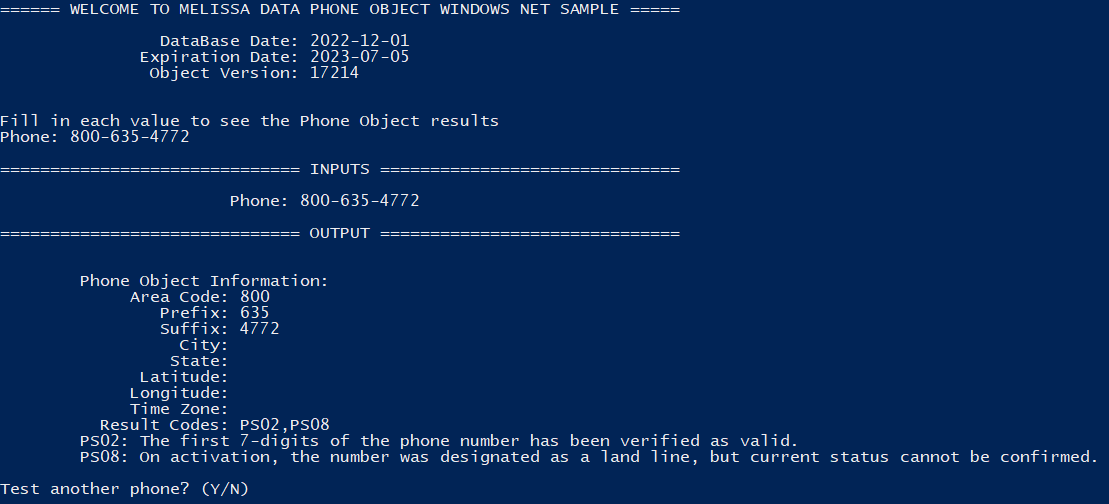
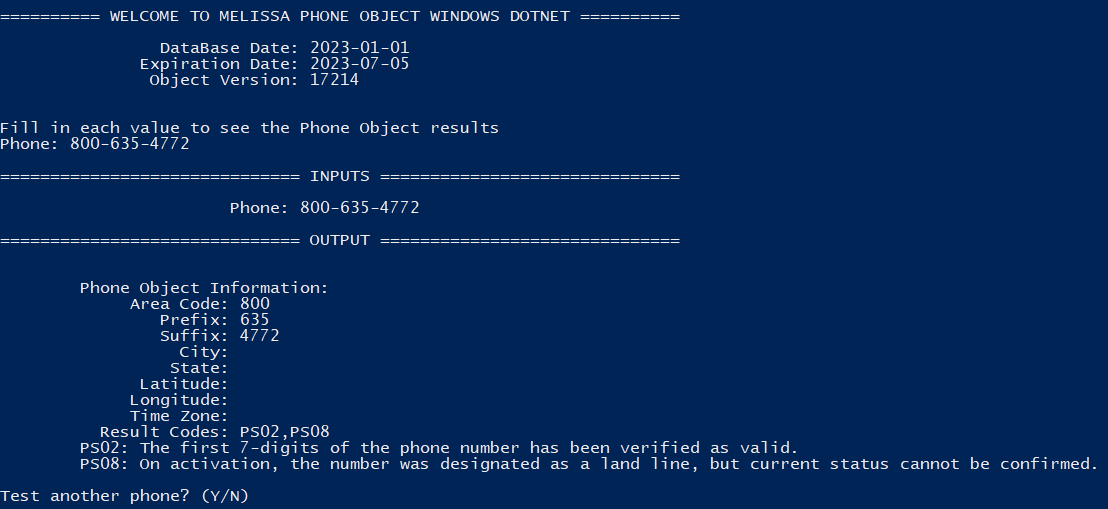
Commit C# Dotnet code for Phone Object with release notes

diff --git a/MelissaPhoneObjectWindowsDotnet/Program.cs b/MelissaPhoneObjectWindowsDotnet/Program.cs
@@ -5,7 +5,7 @@ using System.IO;
 using System.Reflection;
 using MelissaData;
 
-namespace MelissaDataPhoneObjectWindowsNETSample
+namespace MelissaPhoneObjectWindowsDotnet
 {
   class Program
   {
@@ -50,7 +50,7 @@ namespace MelissaDataPhoneObjectWindowsNETSample
 
     static void RunAsConsole(string license, string testPhone, string dataPath)
     {
-      Console.WriteLine("\n\n====== WELCOME TO MELISSA DATA PHONE OBJECT WINDOWS NET SAMPLE =====\n");
+      Console.WriteLine("\n\n========== WELCOME TO MELISSA PHONE OBJECT WINDOWS DOTNET ==========\n");
 
       PhoneObject phoneObject = new PhoneObject(license, dataPath);
 
@@ -144,16 +144,16 @@ namespace MelissaDataPhoneObjectWindowsNETSample
           }
         }
       }
-      Console.WriteLine("\n============ THANK YOU FOR USING MELISSA DATA NET OBJECT ===========\n");
+      Console.WriteLine("\n============ THANK YOU FOR USING MELISSA DOTNET OBJECT ===========\n");
     }
   }
 
   class PhoneObject
   {
-    // Path to phone object data files (.dat, etc)
+    // Path to Phone Object data files (.dat, etc)
     string dataFilePath; 
 
-    // Create instance of Melissa Data Phone Object
+    // Create instance of Melissa Phone Object
     public mdPhone mdPhoneObj = new mdPhone();
 
     public PhoneObject(string license, string dataPath)
@@ -176,13 +176,13 @@ namespace MelissaDataPhoneObjectWindowsNETSample
       Console.WriteLine($"              Expiration Date: {mdPhoneObj.GetLicenseExpirationDate()}");
 
       /**
-       * This number should match with the file properties of the Melissa Data Object binary file.
+       * This number should match with the file properties of the Melissa Object binary file.
        * If TEST appears with the build number, there may be a license key issue.
        */
       Console.WriteLine($"               Object Version: {mdPhoneObj.GetBuildNumber()}\n");
     }
 
-    //This will call the lookup function to process the input phone as well as generate the result codes
+    // This will call the lookup function to process the input phone as well as generate the result codes
     public void ExecuteObjectAndResultCodes(ref DataContainer data)
     {
       mdPhoneObj.Lookup(data.Phone, data.ZipCode);
@@ -193,8 +193,8 @@ namespace MelissaDataPhoneObjectWindowsNETSample
 
       data.ResultCodes = mdPhoneObj.GetResults();
 
-      // ResultsCodes explain any issues phone object has with the object.
-      // List of result codes for Phone object
+      // ResultsCodes explain any issues Phone Object has with the object.
+      // List of result codes for Phone Object
       // https://wiki.melissadata.com/?title=Result_Code_Details#Phone_Object
     }
   }

diff --git a/README.md b/README.md
@@ -1,8 +1,12 @@
-# Melissa Data Phone Object Windows Net Sample
+# Melissa - Phone Object Windows Dotnet
 
 ## Purpose
 
-This is a sample of the Melissa Data Phone Object using C#
+This code showcases the Melissa Phone Object using C#.
+
+Please feel free to copy or embed this code to your own project. Happy coding!
+
+For the latest Melissa Phone Object release notes, please visit: https://releasenotes.melissa.com/on-premise-api/phone-object/
 
 The console will ask the user for:
 
@@ -30,7 +34,7 @@ And return
 
 #### mdPhone.dll
 
-This is the c++ code of the Melissa Data Object.
+This is the c++ code of the Melissa Object.
 
 #### Data File(s)
 - mdGlobalPhone.dat
@@ -99,20 +103,20 @@ Melissa Updater is a CLI application allowing the user to update their Melissa a
 	- It will handle all of the data download/path and dll(s) for you. 
 2.  If you already have the latest DQS Release (ZIP), you can find the data file(s) and dll(s) in there
 	- Use the location of where you copied/installed the data and update the "$DataPath" variable in the powershell script.
-	- Copy all the dll(s) mentioned above into the `MelissaDataPhoneObjectWindowsNETSample` project folder.
+	- Copy all the dll(s) mentioned above into the `MelissaPhoneObjectWindowsDotnet` project folder.
 	
 ----------------------------------------
 
 #### Configure Target Framework
 
-Depending on your target .NET framework, you may need to configure the powershell script. In order to do this, open up the `MelissaDataPhoneObjectWindowsNETSample.ps1` for editing, proceed to the bottom of the script where you will find this section of code.
+Depending on your target .NET framework, you may need to configure the powershell script. In order to do this, open up the `MelissaPhoneObjectWindowsDotnet.ps1` for editing, proceed to the bottom of the script where you will find this section of code.
 
 Default set for .NET 7.0
 ```
-dotnet publish -f="net7.0" -c Release -o $BuildPath MelissaDataPhoneObjectWindowsNETSample\MelissaDataPhoneObjectWindowsNETSample.csproj
-#dotnet publish -f="net6.0" -c Release -o $BuildPath MelissaDataPhoneObjectWindowsNETSample\MelissaDataPhoneObjectWindowsNETSample.csproj
-#dotnet publish -f="net5.0" -c Release -o $BuildPath MelissaDataPhoneObjectWindowsNETSample\MelissaDataPhoneObjectWindowsNETSample.csproj
-#dotnet publish -f="netcoreapp3.1" -c Release -o $BuildPath MelissaDataPhoneObjectWindowsNETSample\MelissaDataPhoneObjectWindowsNETSample.csproj
+dotnet publish -f="net7.0" -c Release -o $BuildPath MelissaPhoneObjectWindowsDotnet\MelissaPhoneObjectWindowsDotnet.csproj
+#dotnet publish -f="net6.0" -c Release -o $BuildPath MelissaPhoneObjectWindowsDotnet\MelissaPhoneObjectWindowsDotnet.csproj
+#dotnet publish -f="net5.0" -c Release -o $BuildPath MelissaPhoneObjectWindowsDotnet\MelissaPhoneObjectWindowsDotnet.csproj
+#dotnet publish -f="netcoreapp3.1" -c Release -o $BuildPath MelissaPhoneObjectWindowsDotnet\MelissaPhoneObjectWindowsDotnet.csproj
 ```
 The target framework is specified with the -f flag found in the command line. If you wish to use any version besides .NET 7.0, please uncomment the line containing that framework and comment out the line containing the .NET 7.0 framework (# to comment).
 
@@ -122,31 +126,31 @@ Parameters:
  	
   This is convenient when you want to get results for a specific phone number in one run instead of testing multiple phone numbers in interactive mode.
 
-- -license (optional): a license string to test the phone object
+- -license (optional): a license string to test the Phone Object
 - -quiet (optional): add to the command if you do not want to get any console output from the Melissa Updater
 
 When you have modified the script to match your data location, let's run the script. There are two modes:
 - Interactive 
 
-	The script will prompt the user for a phone number, then use the provided number to test Phone object.  For example:
+	The script will prompt the user for a phone number, then use the provided number to test Phone Object.  For example:
 	```
-	$ .\MelissaDataPhoneObjectWindowsNETSample.ps1
+	$ .\MelissaPhoneObjectWindowsDotnet.ps1
 	```
     For quiet mode:
     ```
-    $ .\MelissaDataPhoneObjectWindowsNETSample.ps1 -quiet
+    $ .\MelissaPhoneObjectWindowsDotnet.ps1 -quiet
     ```
 - Command Line 
 
-	You can pass a phone number in ```-phone``` parameter and a license string in ```-license``` parameter to test Phone object. For example:
+	You can pass a phone number in ```-phone``` parameter and a license string in ```-license``` parameter to test Phone Object. For example:
 	```
-    $ .\MelissaDataPhoneObjectWindowsNETSample.ps1 -phone "800-635-4772" 
-    $ .\MelissaDataPhoneObjectWindowsNETSample.ps1 -phone "800-635-4772" -license "<your_license_string>"
+    $ .\MelissaPhoneObjectWindowsDotnet.ps1 -phone "800-635-4772" 
+    $ .\MelissaPhoneObjectWindowsDotnet.ps1 -phone "800-635-4772" -license "<your_license_string>"
     ```
 	For quiet mode:
     ```
-    $ .\MelissaDataPhoneObjectWindowsNETSample.ps1 -phone "800-635-4772" -quiet
-    $ .\MelissaDataPhoneObjectWindowsNETSample.ps1 -phone "800-635-4772" -license "<your_license_string>" -quiet
+    $ .\MelissaPhoneObjectWindowsDotnet.ps1 -phone "800-635-4772" -quiet
+    $ .\MelissaPhoneObjectWindowsDotnet.ps1 -phone "800-635-4772" -license "<your_license_string>" -quiet
     ```
 This is the expected output from a successful setup for interactive mode:
 
@@ -155,7 +159,7 @@ This is the expected output from a successful setup for interactive mode:
     
 ## Troubleshooting
 
-Troubleshooting for errors found while running your sample program.
+Troubleshooting for errors found while running your program.
 
 ### C# Errors:
 
@@ -169,8 +173,6 @@ Troubleshooting for errors found while running your sample program.
 
 ## Contact Us
 
-For free technical support, please call us at 800-MELISSA ext. 4
-(800-635-4772 ext. 4) or email us at tech@MelissaData.com.
+For free technical support, please call us at 800-MELISSA ext. 4 (800-635-4772 ext. 4) or email us at tech@melissa.com.
 
-To purchase this product, contact Melissa Data sales department at
-800-MELISSA ext. 3 (800-635-4772 ext. 3).
+To purchase this product, contact the Melissa sales department at 800-MELISSA ext. 3 (800-635-4772 ext. 3).

diff --git a/LICENSE.md b/LICENSE.md
@@ -1,0 +1,21 @@
+MIT License
+
+Copyright (c) Melissa Data Corporation
+
+Permission is hereby granted, free of charge, to any person obtaining a copy
+of this software and associated documentation files (the "Software"), to deal
+in the Software without restriction, including without limitation the rights
+to use, copy, modify, merge, publish, distribute, sublicense, and/or sell
+copies of the Software, and to permit persons to whom the Software is
+furnished to do so, subject to the following conditions:
+
+The above copyright notice and this permission notice shall be included in all
+copies or substantial portions of the Software.
+
+THE SOFTWARE IS PROVIDED "AS IS", WITHOUT WARRANTY OF ANY KIND, EXPRESS OR
+IMPLIED, INCLUDING BUT NOT LIMITED TO THE WARRANTIES OF MERCHANTABILITY,
+FITNESS FOR A PARTICULAR PURPOSE AND NONINFRINGEMENT. IN NO EVENT SHALL THE
+AUTHORS OR COPYRIGHT HOLDERS BE LIABLE FOR ANY CLAIM, DAMAGES OR OTHER
+LIABILITY, WHETHER IN AN ACTION OF CONTRACT, TORT OR OTHERWISE, ARISING FROM,
+OUT OF OR IN CONNECTION WITH THE SOFTWARE OR THE USE OR OTHER DEALINGS IN THE
+SOFTWARE.
